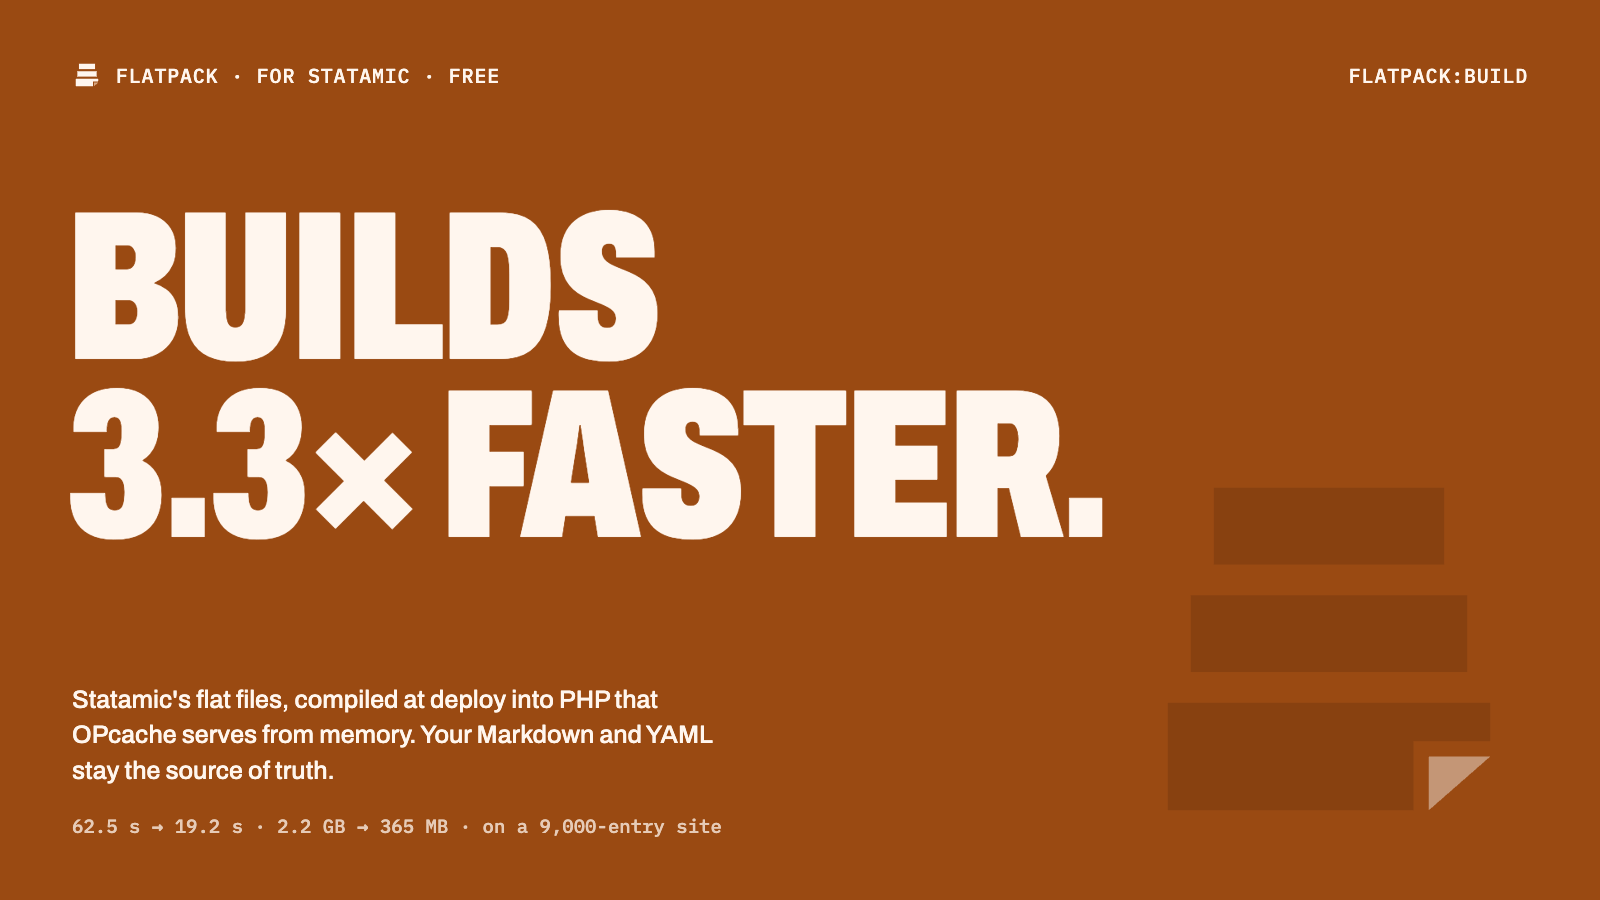
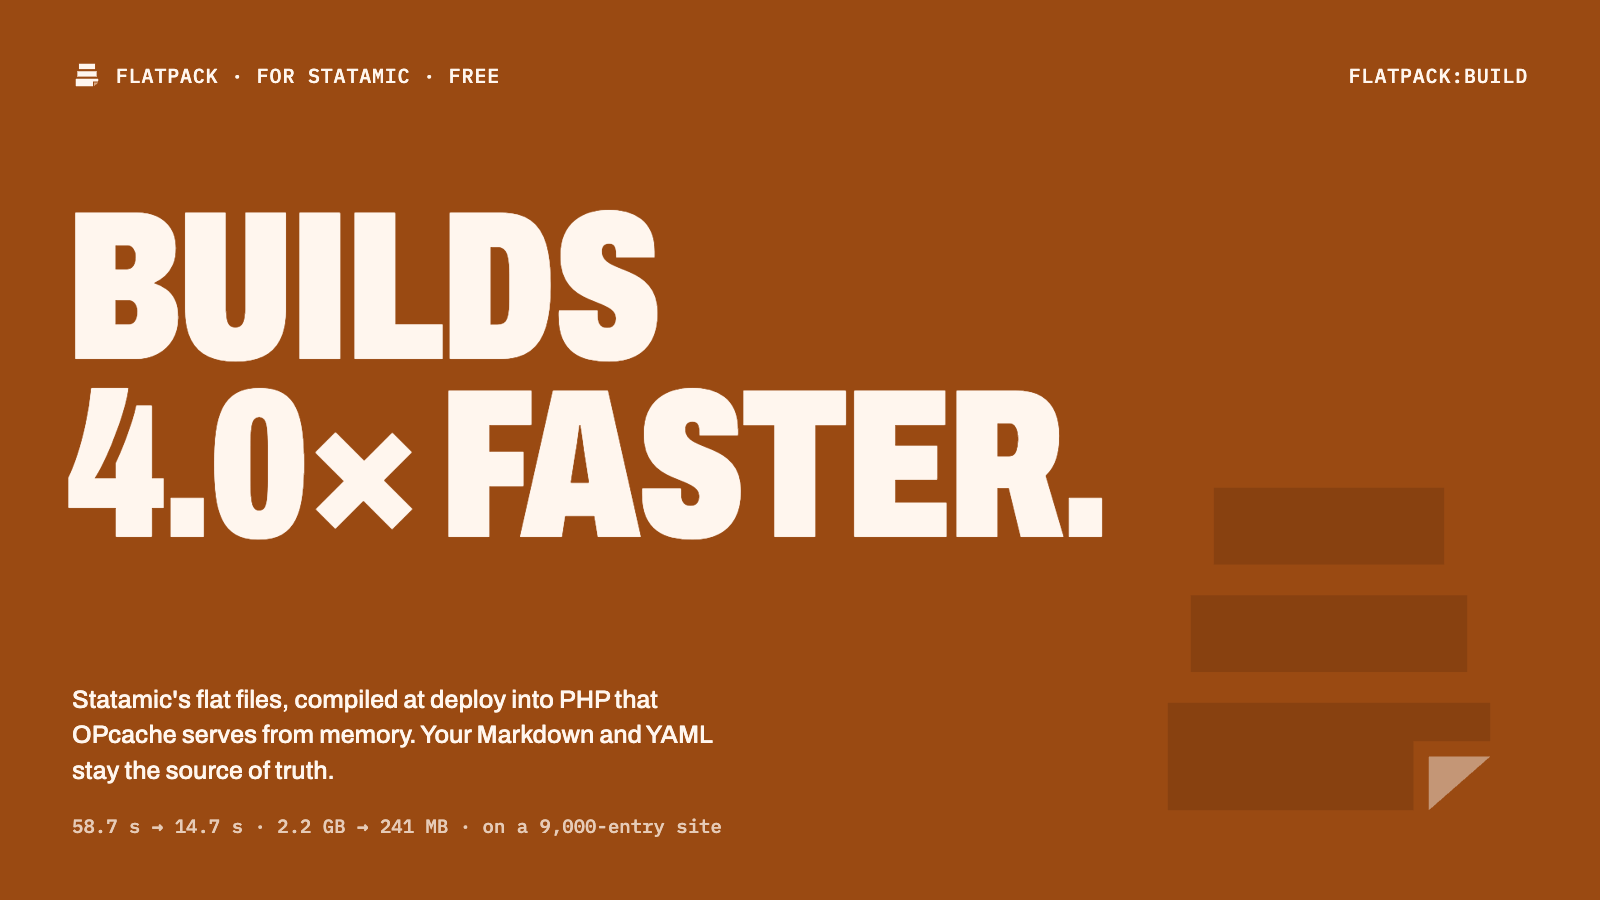
Flatpack: images, charts and listing text from the measurements with the faster build

Changed region(s): [[0.0312, 0.4356, 0.2188, 0.6222]]

diff --git a/flatpack/description.md b/flatpack/description.md
@@ -1,6 +1,6 @@
 **Statamic's flat files, compiled at deploy. Flatpack turns your content into plain PHP files that OPcache keeps in memory, so builds, saves and big sites stop waiting on thousands of YAML files. Your Markdown and YAML stay the source of truth. Free and open source.**
 
-On a 9,000-entry site with nested page builders, a deploy's content build went from 63 seconds to 19, and its memory from 2.2 GB to 365 MB. Measured with the free [Dog-ear Books demo](https://github.com/1994limited/flatpack-statamic-demo), which you can run on your own machine.
+On a 9,000-entry site with nested page builders, a deploy's content build went from 59 seconds to 15, and its memory from 2.2 GB to 241 MB. Measured with the free [Dog-ear Books demo](https://github.com/1994limited/flatpack-statamic-demo), which you can run on your own machine.
 
 ## Nothing to migrate
 
@@ -8,11 +8,11 @@ No database, no new storage, no content changes. Flatpack replaces only the cach
 
 ## Builds in a fraction of the time
 
-`php please flatpack:build` replaces `stache:warm` in your deploy. The bigger the site and the deeper its page builders, the bigger the gain: 1.4x faster with fixed fields, 1.8x with a page builder, 3.3x with nested page builders.
+`php please flatpack:build` replaces `stache:warm` in your deploy. The bigger the site and the deeper its page builders, the bigger the gain: 1.8x faster with fixed fields, 2.5x with a page builder, 4x with nested page builders.
 
 ## A fraction of the memory
 
-Page builders and long Bard fields are left unparsed until a page actually reads them. Listings, navs, URLs and queries never need them, so a build that needed 2.2 GB fits in 365 MB.
+Page builders and long Bard fields are left unparsed until a page actually reads them. Listings, navs, URLs and queries never need them, so a build that needed 2.2 GB fits in 241 MB.
 
 ## Saves that don't wait
 
@@ -28,7 +28,7 @@ Utilities > Flatpack shows what's compiled, which content files have changed on 
 
 ## Honest about page loads
 
-Flatpack speeds up getting content out of Statamic. It doesn't make your templates render faster, so page loads improve less: 9 to 16% in the demo. Sites with many entries, many languages or heavy page builders gain the most.
+Flatpack speeds up getting content out of Statamic. It doesn't make your templates render faster, so page loads improve less: 12 to 17% in the demo. Sites with many entries, many languages or heavy page builders gain the most.
 
 ## Runs where you do
 
